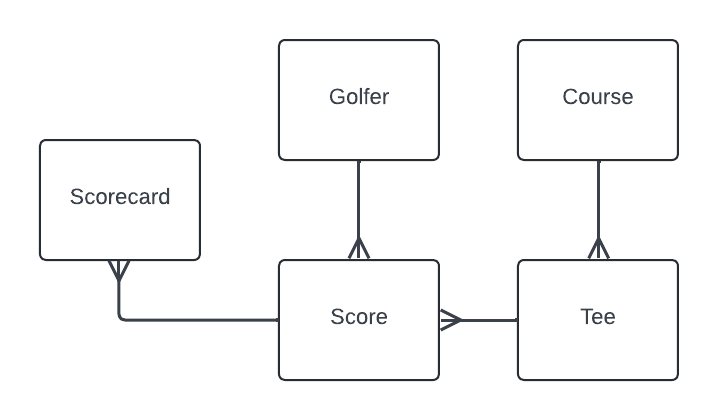
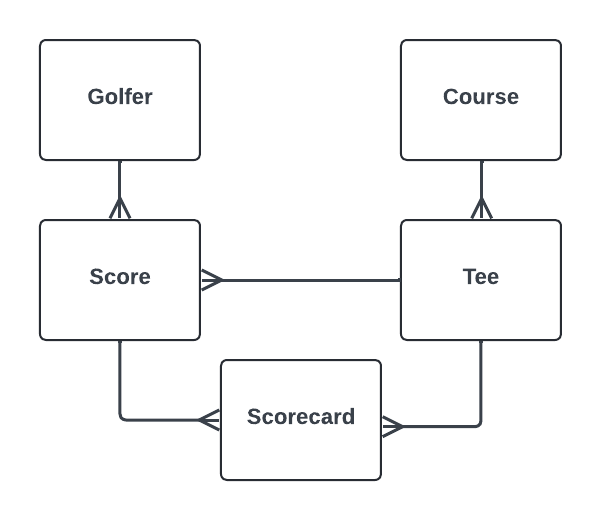
Update model image

Changed region(s): [[0.03, 0.0619, 0.9584, 0.9286], [0.1498, 0.1548, 0.2696, 0.2167], [0.4493, 0.2167, 0.5391, 0.2476]]

diff --git a/README.md b/README.md
@@ -4,14 +4,14 @@ Basic HATEOAS-driven REST service for tracking golf scores. Built using [Spring 
 ### Model
 * `Golfer` has zero or more `Score`s
 * `Course` has zero or more `Tee`s
-* `Tee`s has a slope, rating and 18 `Hole`s
+* `Tee`s have a slope, rating and 18 `Hole`s
 * `Score` has a `Tee`, a Tee Time (Date) and 18 `HoleScore`s
-* `Score` uses a composite key made up of teeId, teeTime, and golferId (`ScoreId`)
-* `Scorecard` is a collection of all `Score`s that have the same teeId and teeTime
+* `Score` uses a composite key made up of teeId, teeTime, and golferId
+* `Scorecard` is a collection of all `Score`s that have matching teeId and teeTime
 
 ![T2G model](model.png)
 
-### `HoleScore`s track the following stuffs for each hole:
+### `HoleScore` tracks the following stuffs for each hole:
 * Strokes
 * Fairway Hit
 * Drive Distance
@@ -27,10 +27,10 @@ Basic HATEOAS-driven REST service for tracking golf scores. Built using [Spring 
 ### Swagger API Docs
 http://localhost:8080/swagger-ui/index.html
 
-### Post a score
+### Post a score 
 > `curl -X POST --data @./sample_json/score.json -H 'Content-Type: application/json' localhost:8080/scores`
 
-### Update a score
+### Update a score (PUT)
 > `curl -X PUT --data @./sample_json/score.json -H 'Content-Type: application/json' localhost:8080/scores`
 
 ### Get a Score
@@ -49,5 +49,5 @@ http://localhost:8080/swagger-ui/index.html
 * Build course repository (@see [FreeGolf Tracker](https://freegolftracker.com/courses/findgolfcourses.php))
 * UI with dashboard
 * Dockerize
-* Index/HDCP calculation (multiple algos?)
+* Index/HDCP calculation
 
